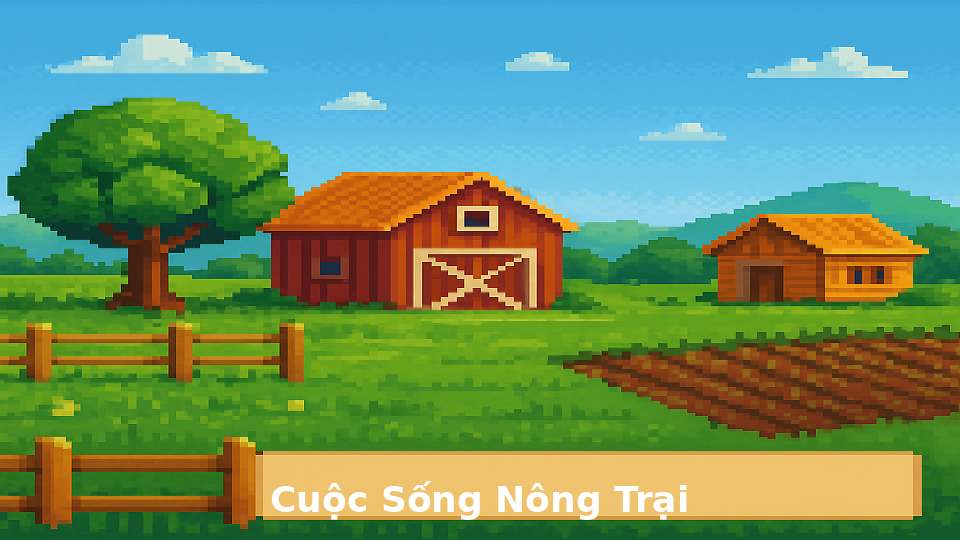
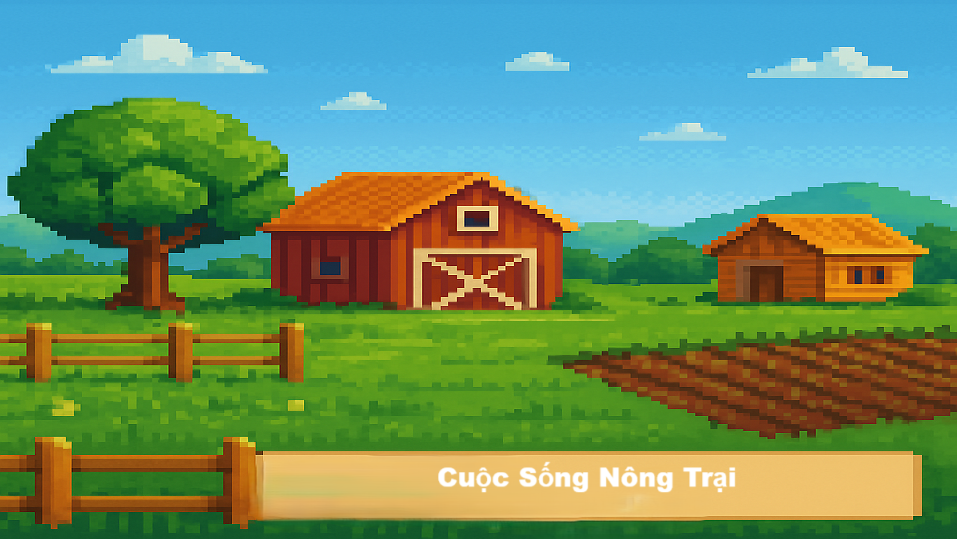
lay trung

diff --git a/core/src/main/java/farm/com/screens/GameScreen.java b/core/src/main/java/farm/com/screens/GameScreen.java
@@ -22,6 +22,7 @@ import farm.com.animals.Cow;
 import farm.com.animals.Pig;
 import farm.com.buttons.Save;
 import farm.com.enums.ChooseType;
+import farm.com.enums.PlantType;
 import farm.com.enums.SeasonType;
 import farm.com.seeds.*;
 
@@ -48,6 +49,8 @@ public class GameScreen implements Screen {
     Coin coin;
     int day;
     int timing;
+
+    PlantType plantType;
 
     public static final int WIDTH = 960;
     public static final int HEIGHT = 1080;
@@ -117,7 +120,7 @@ public class GameScreen implements Screen {
 
 
         timing++;
-        if(timing % (60*5) == 0){
+        if(timing % (60*24) == 0){
             newDay();
         }
 
@@ -151,6 +154,7 @@ public class GameScreen implements Screen {
                 }
 
                 if (Master.type.equals(ChooseType.PUMKIN) && GameState.seedpu > 0 && !game.water && isFree(mousePosition.x, mousePosition.y)) {
+//                    plantType = P
                     listPlants.add(new Plants(x, mousePosition.y - 16, stage, game, 0));
                     GameState.seedpu -= 1;
 

diff --git a/core/src/main/java/farm/com/screens/ShopScreen.java b/core/src/main/java/farm/com/screens/ShopScreen.java
@@ -137,13 +137,13 @@ public class ShopScreen implements Screen {
         game.font.draw(game.batch, layout, 500, 260);
 
         layout.setText(game.font,"" + GameState.totalPork);
-        game.font.draw(game.batch, layout, 100, Gdx.graphics.getHeight() - 80);
+        game.font.draw(game.batch, layout, 100, Gdx.graphics.getHeight() - 60);
 
         layout.setText(game.font,"" + GameState.milkTotal);
-        game.font.draw(game.batch, layout, 100, Gdx.graphics.getHeight() - 180);
+        game.font.draw(game.batch, layout, 100, Gdx.graphics.getHeight() - 160);
 
         layout.setText(game.font,"" + GameState.egg);
-        game.font.draw(game.batch, layout, 100, Gdx.graphics.getHeight() - 280);
+        game.font.draw(game.batch, layout, 100, Gdx.graphics.getHeight() - 260);
 
         game.batch.end();
     }

diff --git a/core/src/main/java/farm/com/screens/MenuScreen.java b/core/src/main/java/farm/com/screens/MenuScreen.java
@@ -35,6 +35,7 @@ public class MenuScreen implements Screen {
         stage = new Stage();
 
         background = new Texture("menu.png");
+
 //        start = new Texture("start.png");
         camera = new OrthographicCamera();
         camera.setToOrtho(false, Gdx.graphics.getWidth(),Gdx.graphics.getHeight());
@@ -71,9 +72,9 @@ public class MenuScreen implements Screen {
             }
         });
 
-        music = Gdx.audio.newMusic(Gdx.files.internal("Menu.mp3"));
-        music.setLooping(true);
-        music.play();
+//        music = Gdx.audio.newMusic(Gdx.files.internal("Menu.mp3"));
+//        music.setLooping(true);
+//        music.play();
     }
 
     @Override

diff --git a/core/src/main/java/farm/com/screens/GuideScreen.java b/core/src/main/java/farm/com/screens/GuideScreen.java
@@ -11,15 +11,19 @@ import com.badlogic.gdx.scenes.scene2d.ui.TextButton;
 import com.badlogic.gdx.scenes.scene2d.utils.ClickListener;
 import com.badlogic.gdx.utils.ScreenUtils;
 import farm.com.MyActor;
+import farm.com.Tutorial;
 import farm.com.buttons.Guide;
 
 public class GuideScreen implements Screen {
     Master game;
     Stage stage;
+    Tutorial tutorial;
 
     public GuideScreen(Master game){
         this.game = game;
         stage = new Stage();
+
+        tutorial = new Tutorial(0,0,stage);
 
         MyActor guide = new MyActor(0,0, stage);
         guide.textureRegion = new TextureRegion(new Texture("guidetext.png"));

diff --git a/core/src/main/java/farm/com/inshop/MilkButton.java b/core/src/main/java/farm/com/inshop/MilkButton.java
@@ -9,8 +9,8 @@ import farm.com.enums.SellTypeButton;
 public class MilkButton extends SellButton {
     public MilkButton(float x, float y, Stage s) {
         super(x, y, s);
-        textureRegion = new TextureRegion(new Texture("Cow_sell.png"));
-        setSize(64, 32);
+        textureRegion = new TextureRegion(new Texture("bucket.png"));
+        setSize(textureRegion.getRegionWidth(), textureRegion.getRegionHeight());
         cost = 70;
         type = SellTypeButton.MILK;
     }

diff --git a/core/src/main/java/farm/com/Tutorial.java b/core/src/main/java/farm/com/Tutorial.java
@@ -1,0 +1,14 @@
+package farm.com;
+
+import com.badlogic.gdx.graphics.Texture;
+import com.badlogic.gdx.graphics.g2d.TextureRegion;
+import com.badlogic.gdx.scenes.scene2d.Stage;
+
+public class Tutorial extends MyActor{
+    public Tutorial(float x, float y, Stage s) {
+        super(x, y, s);
+        textureRegion = new TextureRegion(new Texture("hd.png"));
+        setSize(textureRegion.getRegionWidth()/1.75f, textureRegion.getRegionHeight()/1.5f);
+
+    }
+}

diff --git a/core/src/main/java/farm/com/animals/Egg.java b/core/src/main/java/farm/com/animals/Egg.java
@@ -19,7 +19,7 @@ public class Egg extends MyActor {
             public void clicked(InputEvent event, float x, float y) {
                 if(chicken.age > 5){
                     GameState.egg++;
-                    chicken.age = 1;
+                    chicken.age = 3;
                     new ShowInfo(getX()+ getWidth() +4,  getY()+ getHeight() + 4, chicken.getStage(), "+1 egg", 8).fadeOut();
                     remove();
                 }

diff --git a/core/src/main/java/farm/com/inshop/PorkButton.java b/core/src/main/java/farm/com/inshop/PorkButton.java
@@ -9,7 +9,7 @@ import farm.com.enums.SellTypeButton;
 public class PorkButton extends SellButton {
     public PorkButton(float x, float y, Stage s) {
         super(x, y, s);
-        textureRegion = new TextureRegion(new Texture("Pig_sell.png"));
+        textureRegion = new TextureRegion(new Texture("meat.png"));
         setSize(64, 32);
         cost = 50;
         type = SellTypeButton.PORK;

diff --git a/core/src/main/java/farm/com/inshop/EggButton.java b/core/src/main/java/farm/com/inshop/EggButton.java
@@ -9,7 +9,7 @@ import farm.com.enums.SellTypeButton;
 public class EggButton extends SellButton {
     public EggButton(float x, float y, Stage s) {
         super(x, y, s);
-        textureRegion = new TextureRegion(new Texture("Chick_sell.png"));
+        textureRegion = new TextureRegion(new Texture("egg.png"));
         setSize(64, 64);
         cost = 5;
         type = SellTypeButton.EGG;

diff --git a/core/src/main/java/farm/com/buttons/Save.java b/core/src/main/java/farm/com/buttons/Save.java
@@ -12,6 +12,6 @@ public class Save extends MyActor {
     public Save(float x, float y, Stage s) {
         super(x, y, s);
         textureRegion = new TextureRegion(new Texture("save.png"));
-        setSize(64, 32);
+        setSize(textureRegion.getRegionWidth(), textureRegion.getRegionHeight());
     }
 }

diff --git a/core/src/main/java/farm/com/inshop/ChickenButton.java b/core/src/main/java/farm/com/inshop/ChickenButton.java
@@ -13,7 +13,7 @@ public class ChickenButton extends BuyButton {
         super(x, y, s);
         textureRegion = Utils.chic(0,0,8,8);
         setSize(textureRegion.getRegionWidth()*4, textureRegion.getRegionHeight()*4);
-        cost = 50;
+        cost = 100;
         type = BuyTypeButton.CHICKEN;
     }
 }
